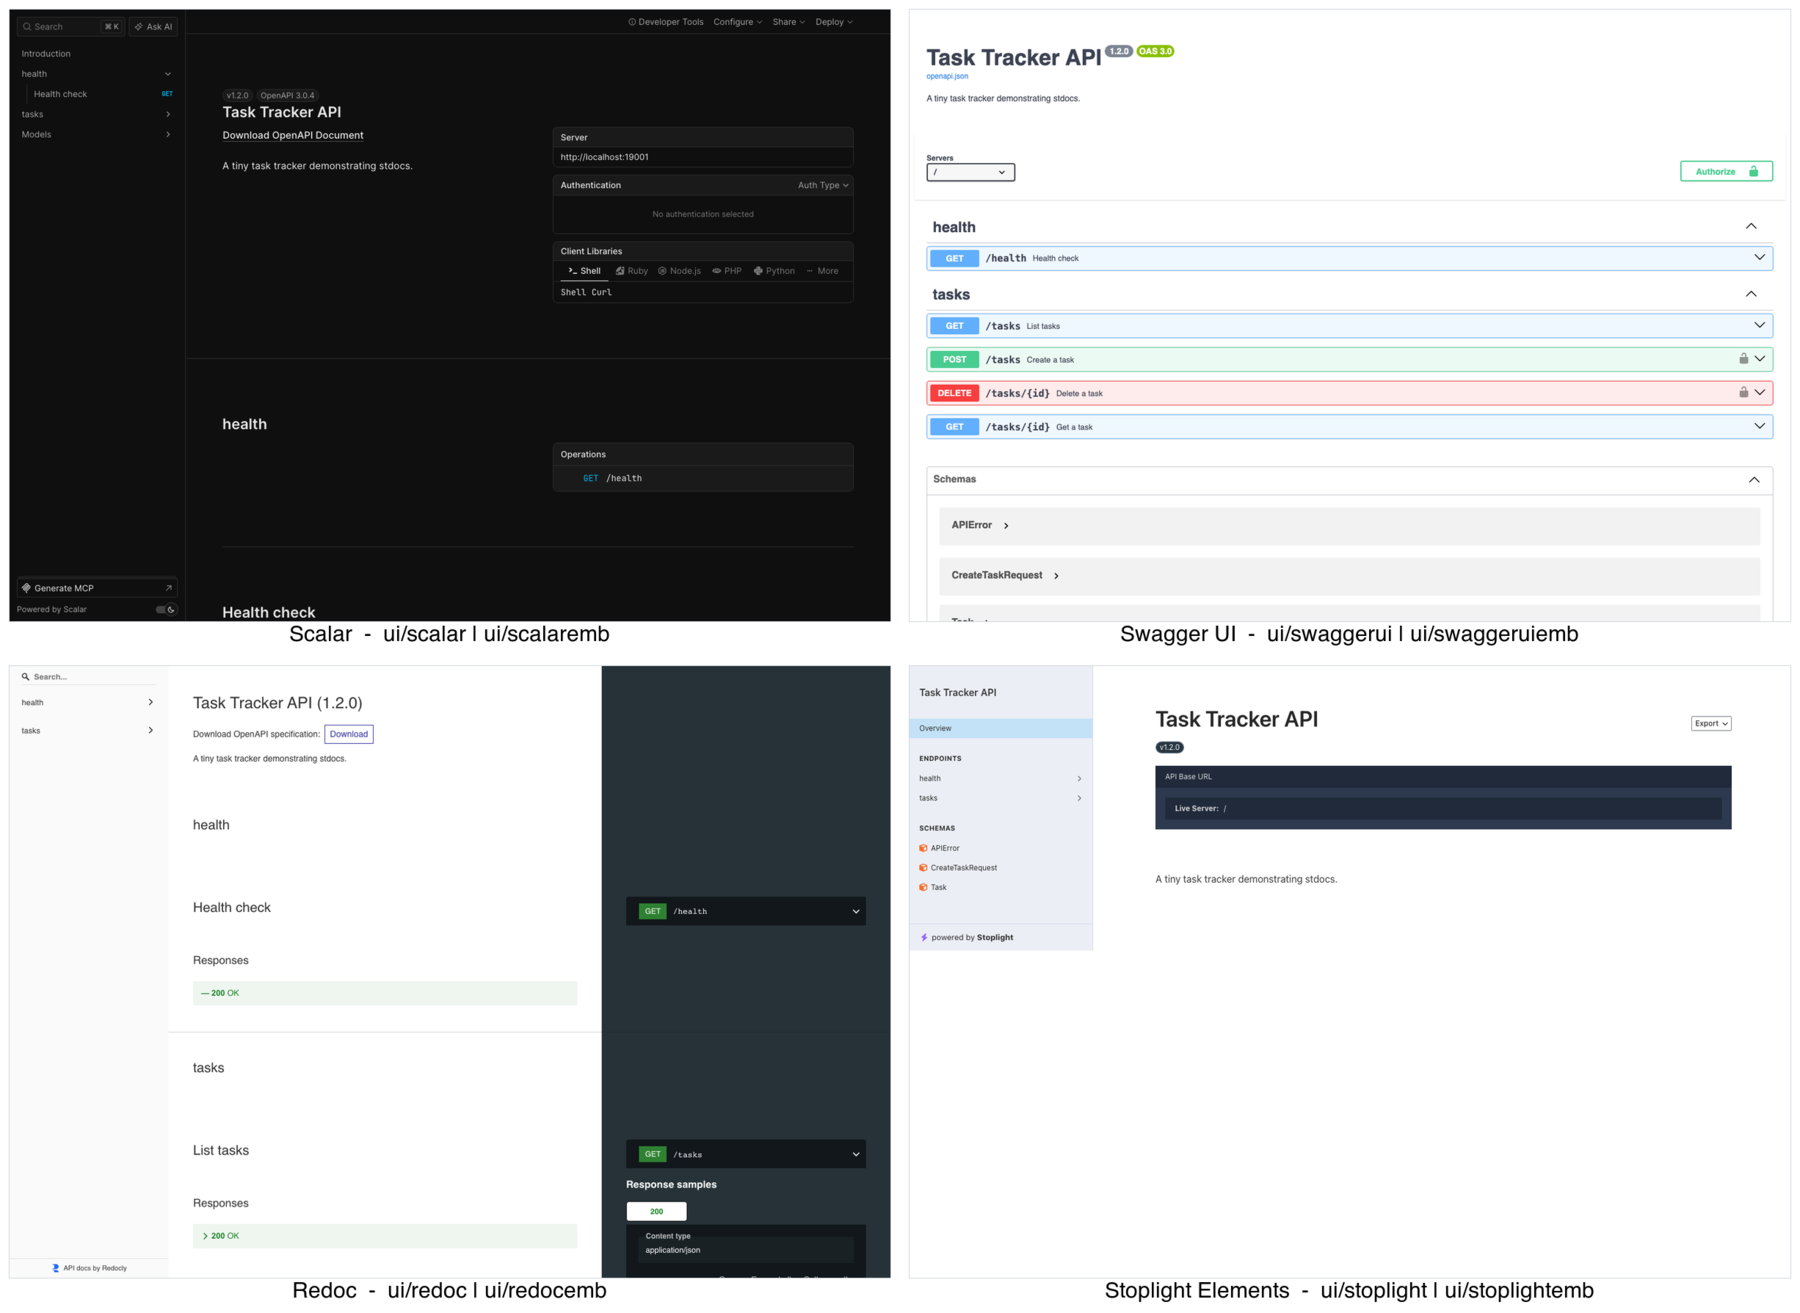
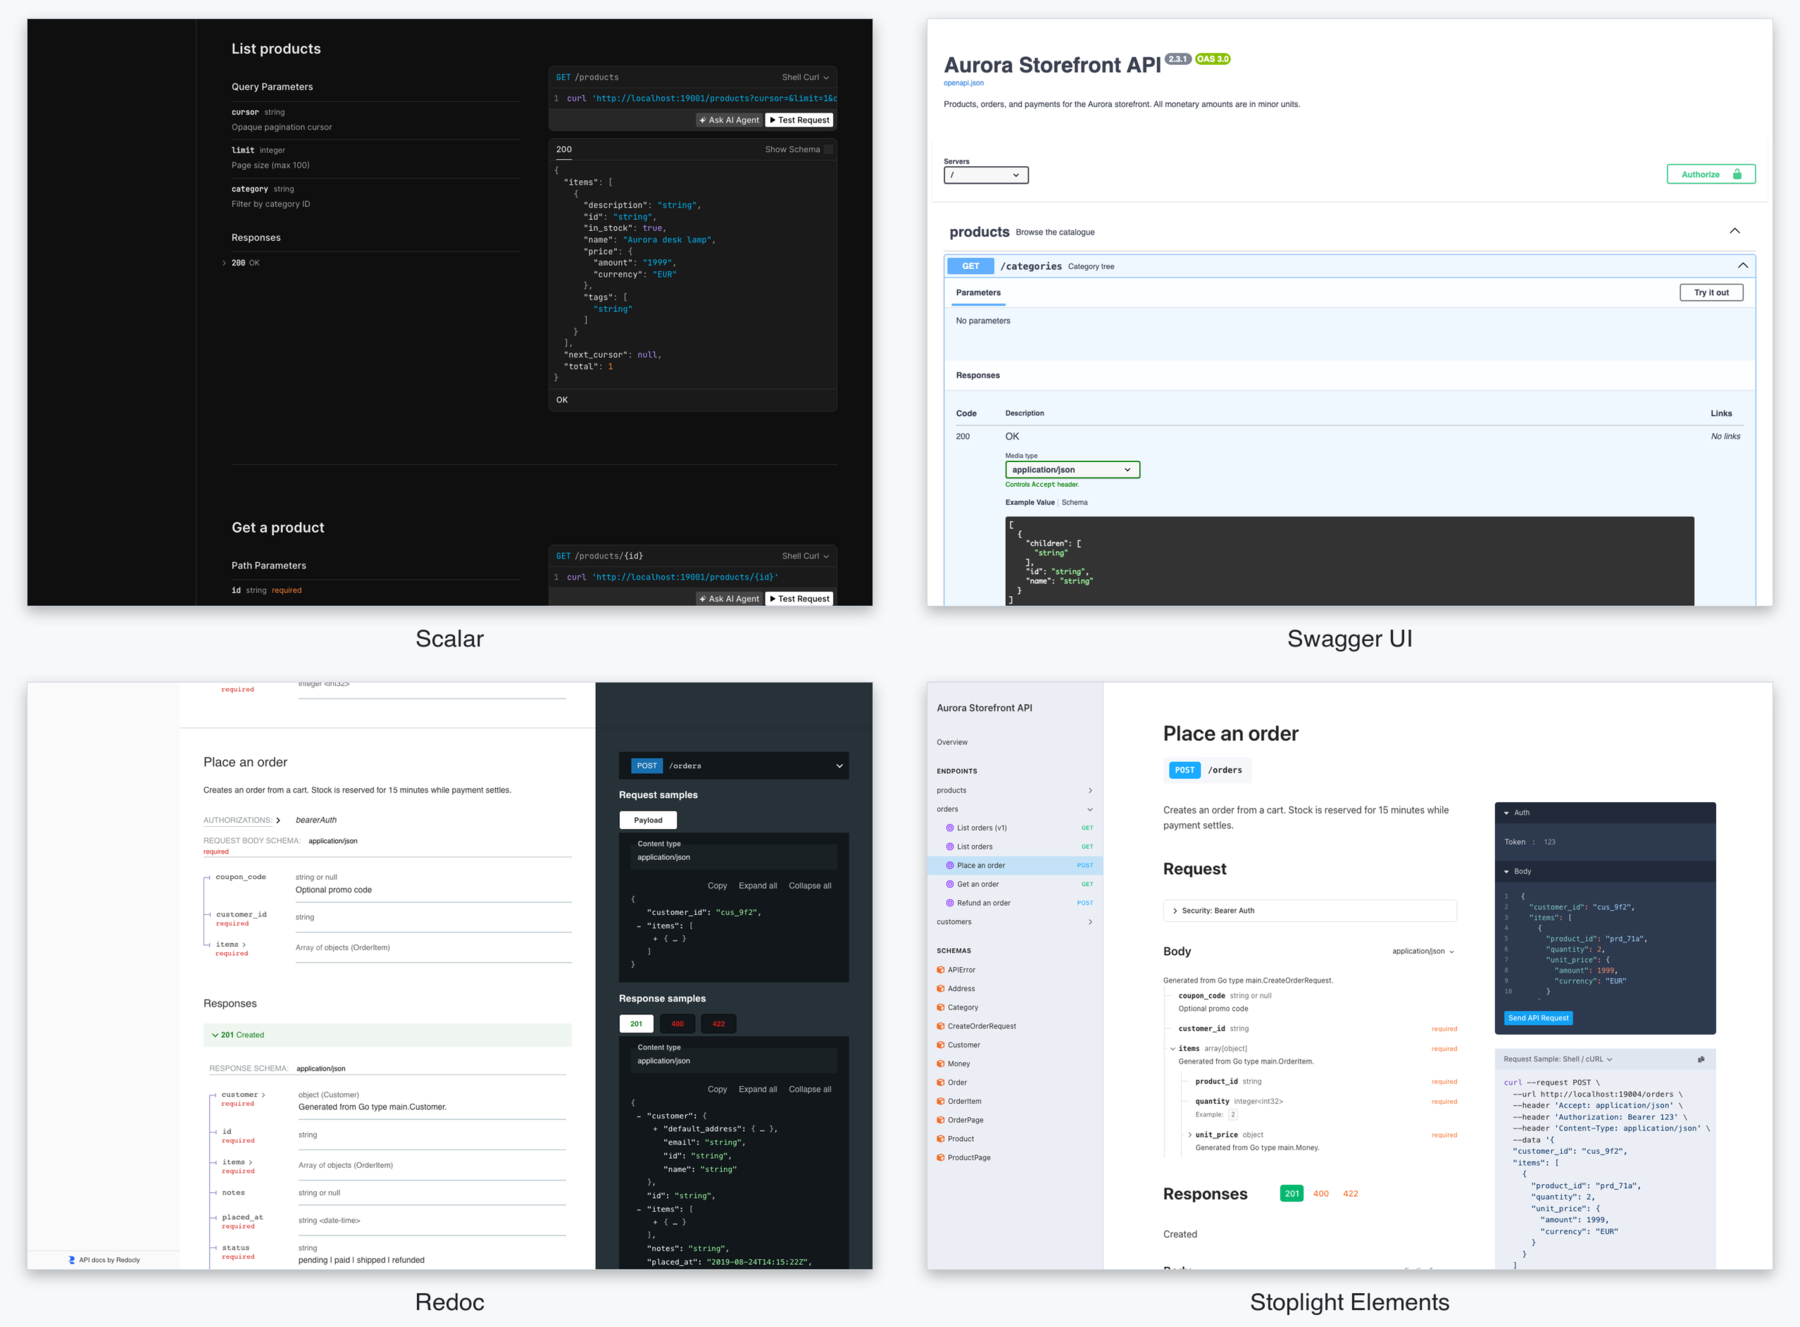
Apply the self-documenting positioning; richer four-UI screenshot
The README tagline, doc.go opening (the pkg.go.dev synopsis), and the
GitHub repository description now share one definition: stdocs turns
a standard library ServeMux into a self-documenting API, with the
UI serving as the headline capability and the generated OpenAPI
document as its backing. The Features list leads with the five UIs;
zero-deps moves to the end since the tagline already states it.

The README composite is reshot against a richer storefront example
(nested types, recursive categories, pagination, OAuth-protected
operations, request examples, response headers, a deprecated route)
with each UI captured in a content-dense state: Scalar at an
operation with a cURL line and JSON sample, Swagger UI with an
expanded operation, Redoc and Stoplight at the Place-an-order page
with request/response samples. Tiles get borders and soft shadows on
a light background.

diff --git a/doc.go b/doc.go
@@ -1,10 +1,14 @@
-// Package stdocs builds an OpenAPI 3.0, 3.1, or 3.2 specification
-// from routes registered on a standard library [net/http.ServeMux]
-// and serves the spec (and an optional docs UI) over HTTP.
+// Package stdocs turns a standard library [net/http.ServeMux] into a
+// self-documenting API: routes registered on the wrapped mux are
+// served as interactive documentation — a /docs UI rendered by
+// Scalar, Swagger UI, Redoc, Stoplight Elements, or a built-in page —
+// backed by a generated OpenAPI 3.0, 3.1, or 3.2 document.
 //
 // The pattern syntax it documents ("GET /users/{id}") is the
 // method+path routing introduced in Go 1.22; the module itself
-// requires Go 1.26.4 or later.
+// requires Go 1.26.4 or later. There are no dependencies beyond the
+// standard library and no code generation: the patterns you already
+// write are the source of truth.
 //
 // # Two ways to use it
 //

diff --git a/README.md b/README.md
@@ -5,7 +5,7 @@
 [![Go Reference](https://pkg.go.dev/badge/github.com/FumingPower3925/stdocs.svg)](https://pkg.go.dev/github.com/FumingPower3925/stdocs)
 [![License: Apache-2.0](https://img.shields.io/badge/License-Apache_2.0-blue.svg)](https://opensource.org/licenses/Apache-2.0)
 
-OpenAPI 3.0.4, 3.1.2, and 3.2.0 generation for the stdlib `net/http.ServeMux` (Go 1.22+ pattern syntax). No runtime dependencies.
+stdocs turns a standard library `net/http.ServeMux` into a self-documenting API: register routes as usual, and it serves interactive documentation for them — Scalar, Swagger UI, Redoc, or Stoplight Elements at `/docs` — backed by a generated OpenAPI 3.0/3.1/3.2 document. Zero dependencies, no code generation: the patterns you already write are the source of truth.
 
 ```go
 mux := stdocs.New(stdocs.WithTitle("My API"))
@@ -32,14 +32,14 @@ The same generated document, rendered by each of the four bundled rich UIs — e
 
 ## Features
 
-- **Zero deps** — only the Go standard library at runtime.
+- **Five UIs** — a tiny dependency-free default (~1.6 KB, inline JS only), plus Scalar, Swagger UI, Redoc, and Stoplight Elements — each available as a CDN sub-package (version-pinned with SRI integrity hashes) or an air-gapped embedded sub-package.
 - **Three OpenAPI versions** — 3.0.4 (default), 3.1.2, and 3.2.0, all tested.
 - **Reflection** — Go types become JSON Schemas: pointers, slices, maps, generics, embedded structs, recursive types via `$ref`, `json` tags (including `omitempty`, `omitzero`, and `,string`), `json.Marshaler`/`encoding.TextMarshaler` awareness.
 - **Smart defaults** — function names become summaries, the first path segment becomes the tag, path params are auto-included.
 - **Security** — bearer, basic, API key, OAuth 2.0 (including the 3.2 device flow). Unregistered scheme names are reported as errors.
-- **Five UIs** — a tiny dependency-free default (~1.6 KB, inline JS only), plus Scalar, Swagger UI, Redoc, and Stoplight Elements — each available as a CDN sub-package (version-pinned with SRI integrity hashes) or an air-gapped embedded sub-package.
 - **Environment toggling** — `mux.Mount(enabled)`/`mux.Docs(enabled)` and `WithDisabled(true)` turn the docs on or off per environment, and `Hidden()`/`Internal()` + `WithInternal(show)` control per-route visibility — all without changing registered routes.
 - **XSS-safe** — the docs HTML is rendered through `html/template`.
+- **Zero deps** — only the Go standard library at runtime.
 
 ## Install
 